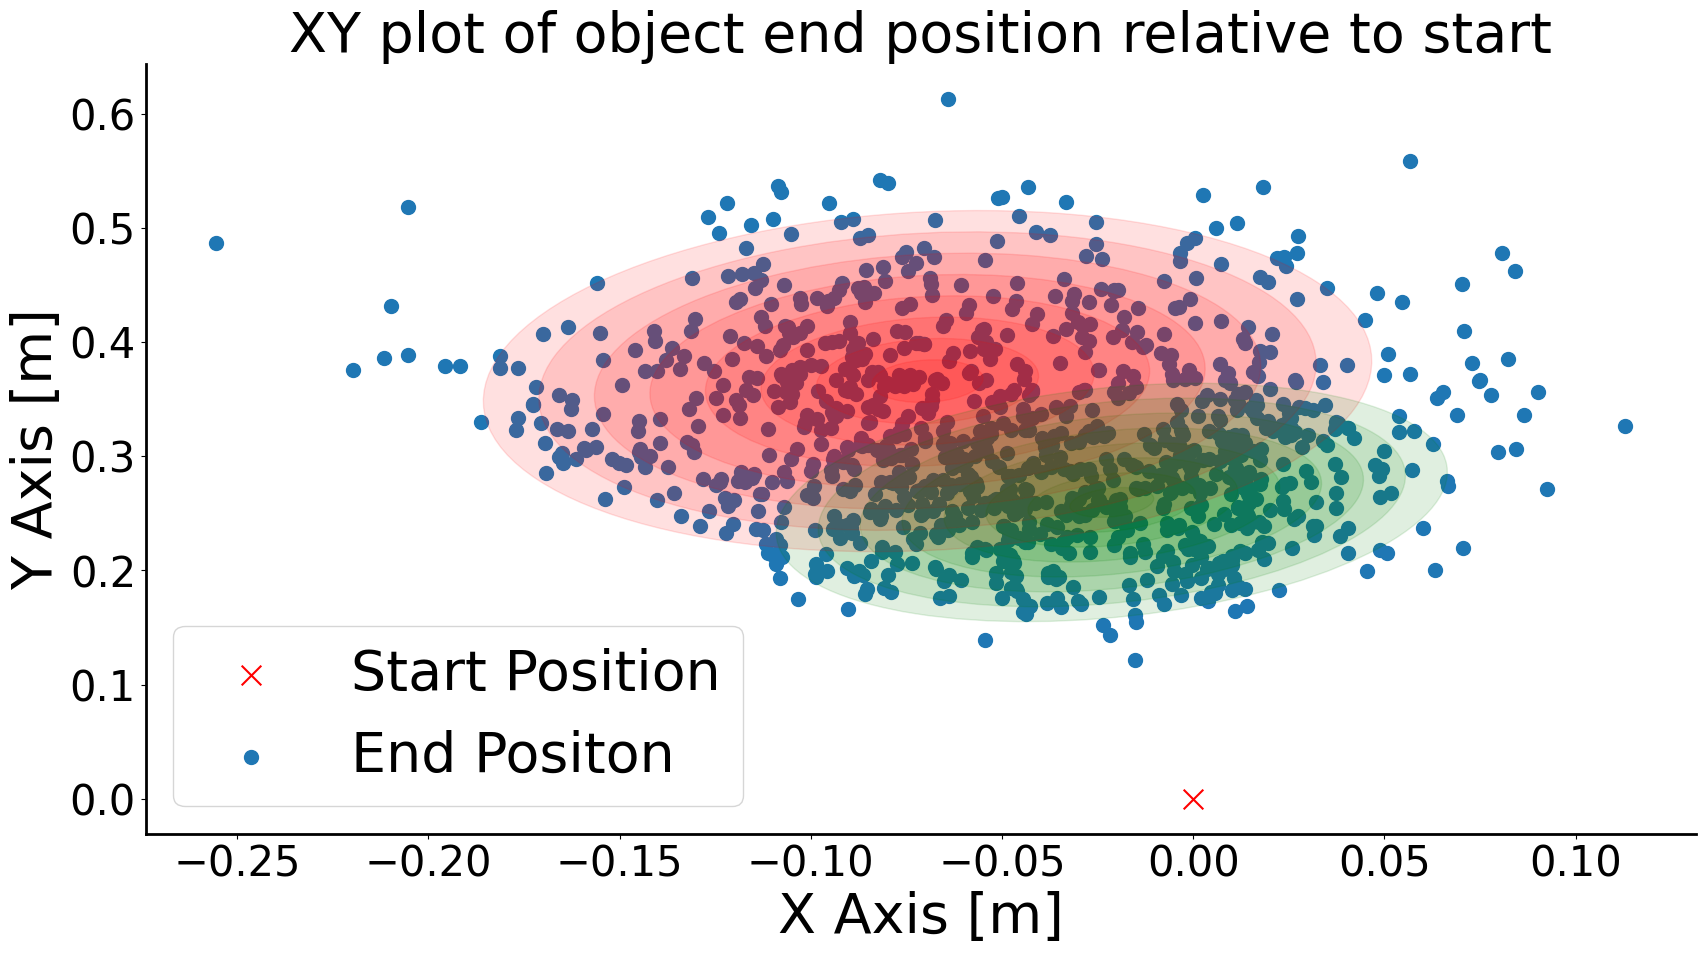
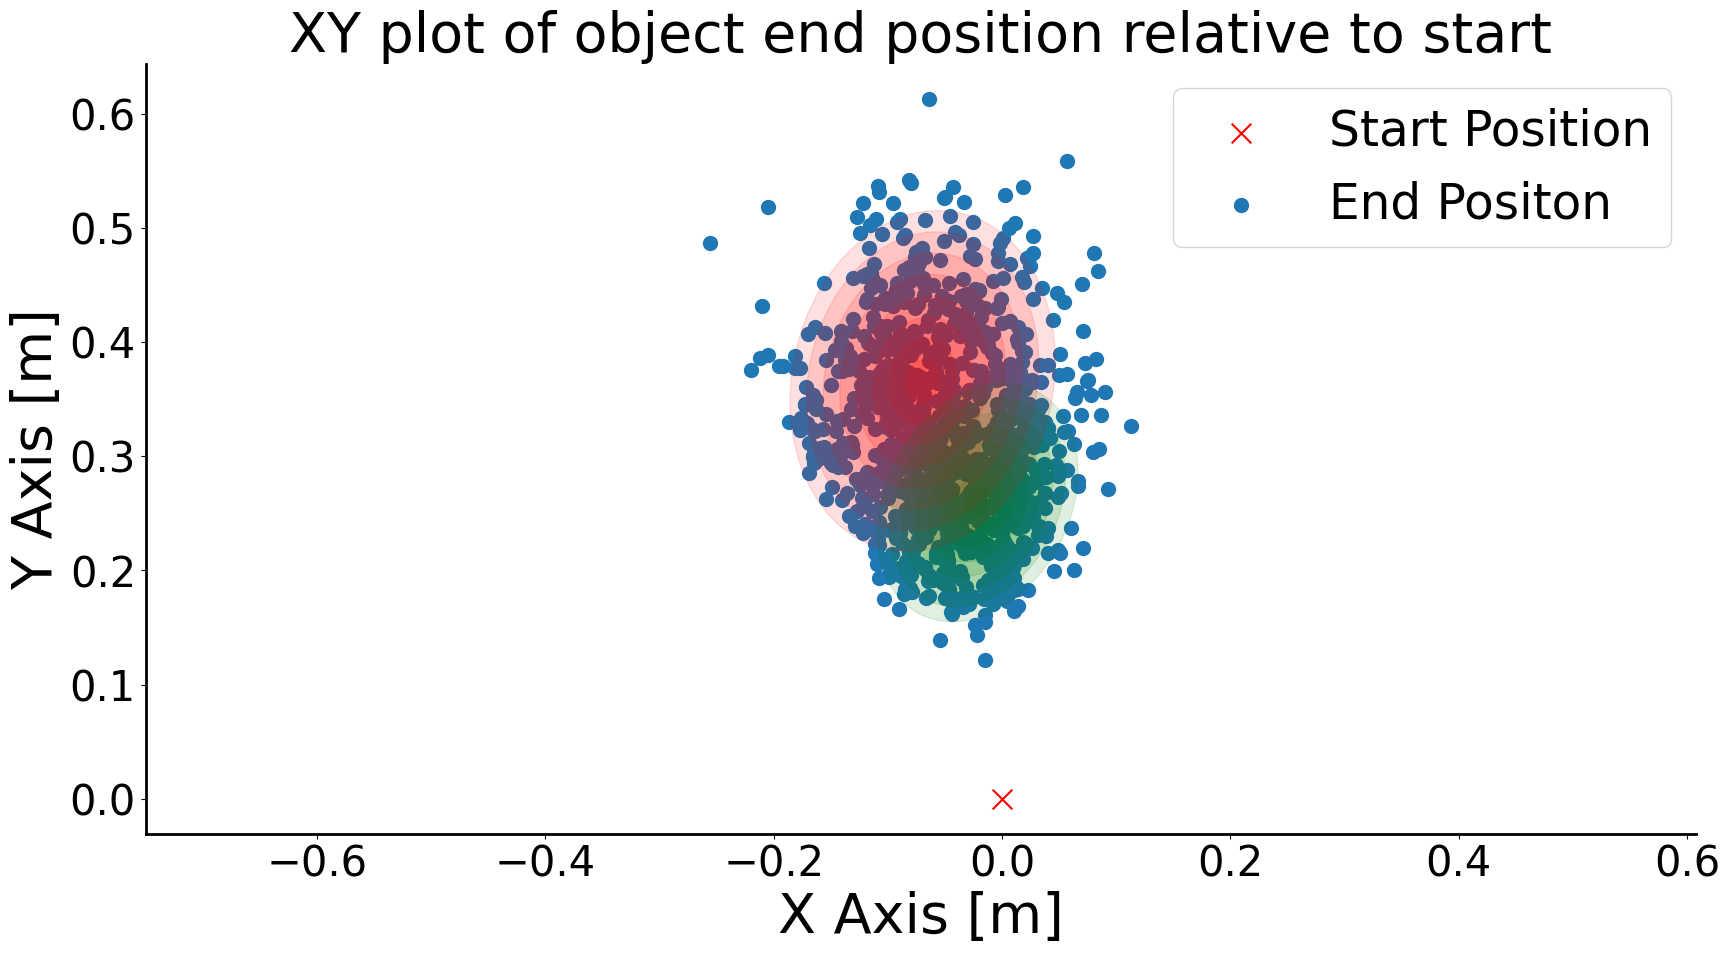
added axis equal to golf plots

diff --git a/python/gmm_analysis.py b/python/gmm_analysis.py
@@ -340,14 +340,16 @@ def get_flux_for_distance_with_gmr(model_name='GMM_fit_for_D1', d1=0.5, d2=0.5):
 def get_golf_gaussians(show_plot=True, save_fig=True):
 
     #### Title
-    model_name = "golf_XY_D1" # "golf_XY_D1_complete"
+    model_name = "golf_XY_D1_iiwa7" # "golf_XY_D1_complete"
 
     ## Grab clean D1 
     clean_dataset_folder = "KL_div-robot_agnostic-D1"
     dataset_name = "D1-robot_agnostic"
 
-    df = read_airhockey_csv(fn=dataset_name, folder=PATH_TO_DATA_FOLDER + f"airhockey_processed/clean/{clean_dataset_folder}/")
-    # df = read_and_clean_data("D1_clean", max_flux=1.2) ## D1_complete
+    # df = read_airhockey_csv(fn=dataset_name, folder=PATH_TO_DATA_FOLDER + f"airhockey_processed/clean/{clean_dataset_folder}/")
+    df = read_and_clean_data("D1_clean", max_flux=1.2) ## D1_complete
+
+    df = df[df['IiwaNumber']==7]
 
     ## Compute relative end pos for each hit 
     df["RelativeEndPos"] = df.apply(lambda row : [a - b for a, b in zip(row['ObjectPosEnd'], row['ObjectPosStart'])] , axis=1)
@@ -365,11 +367,12 @@ def get_golf_gaussians(show_plot=True, save_fig=True):
     plt.figure(figsize=(20, 10))
     plt.scatter(0, 0, c='r', marker='x', s=200, label='Start Position')
     plt.scatter(X[:, 0], X[:, 1], s=100, label='End Positon')
-    plot_error_ellipses(plt.gca(), gmm, colors=['r', 'g'], alpha = 0.12)
+    plot_error_ellipses(plt.gca(), gmm, colors=['r', 'g'], alpha = 0.2)
 
     plt.xlabel("X Axis [m]", fontsize=GLOBAL_FONTSIZE)   
     plt.ylabel("Y Axis [m]", fontsize=GLOBAL_FONTSIZE) 
     plt.legend(fontsize=GLOBAL_FONTSIZE-5)
+    plt.axis('equal')
     plt.title('XY plot of object end position relative to start', fontsize=GLOBAL_FONTSIZE)
 
     # Increase the size of the tick labels
